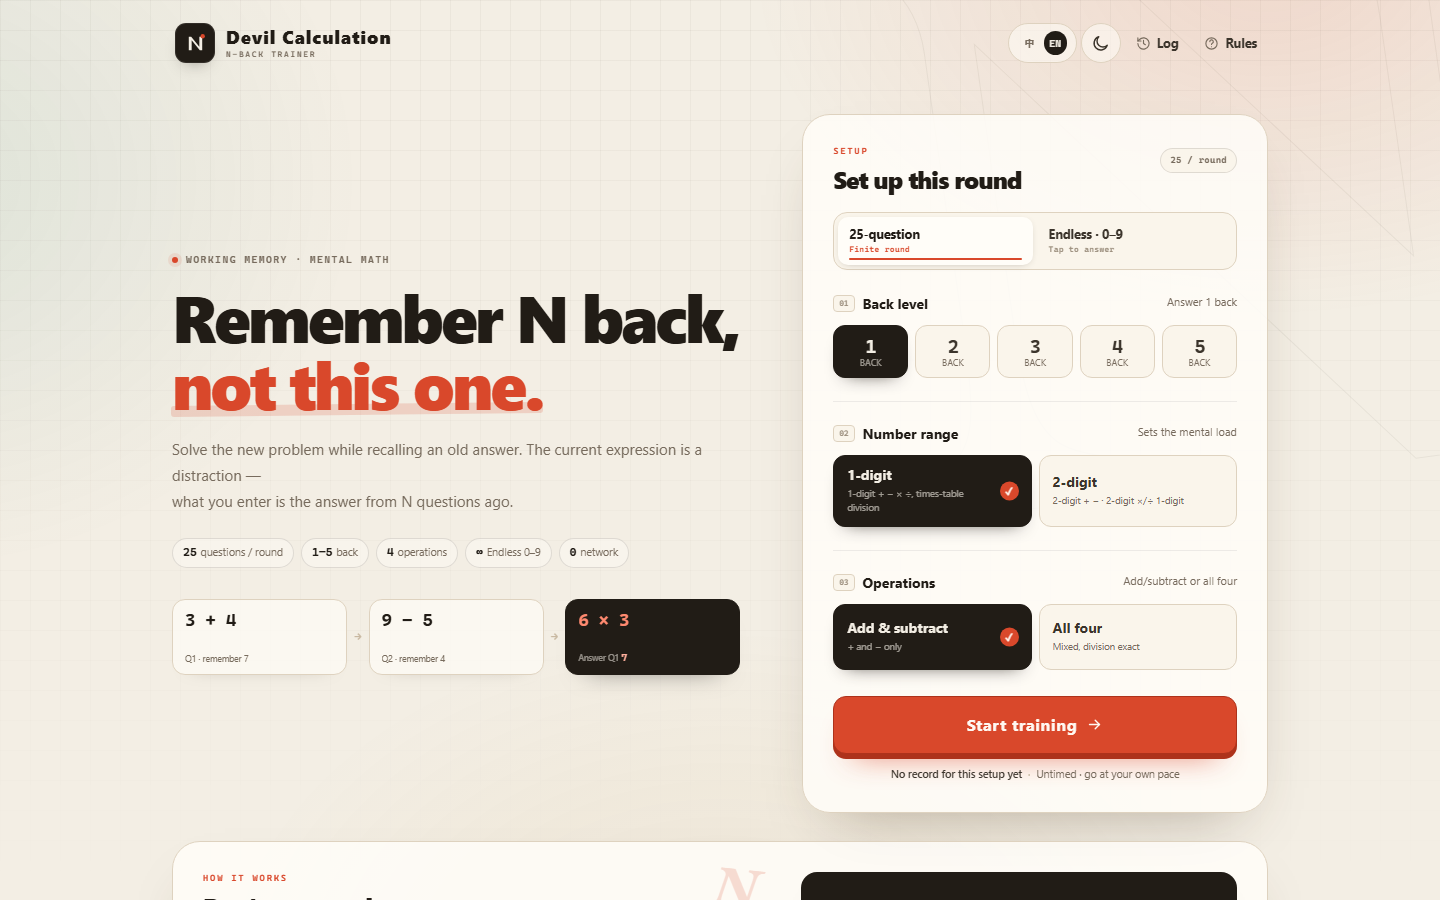
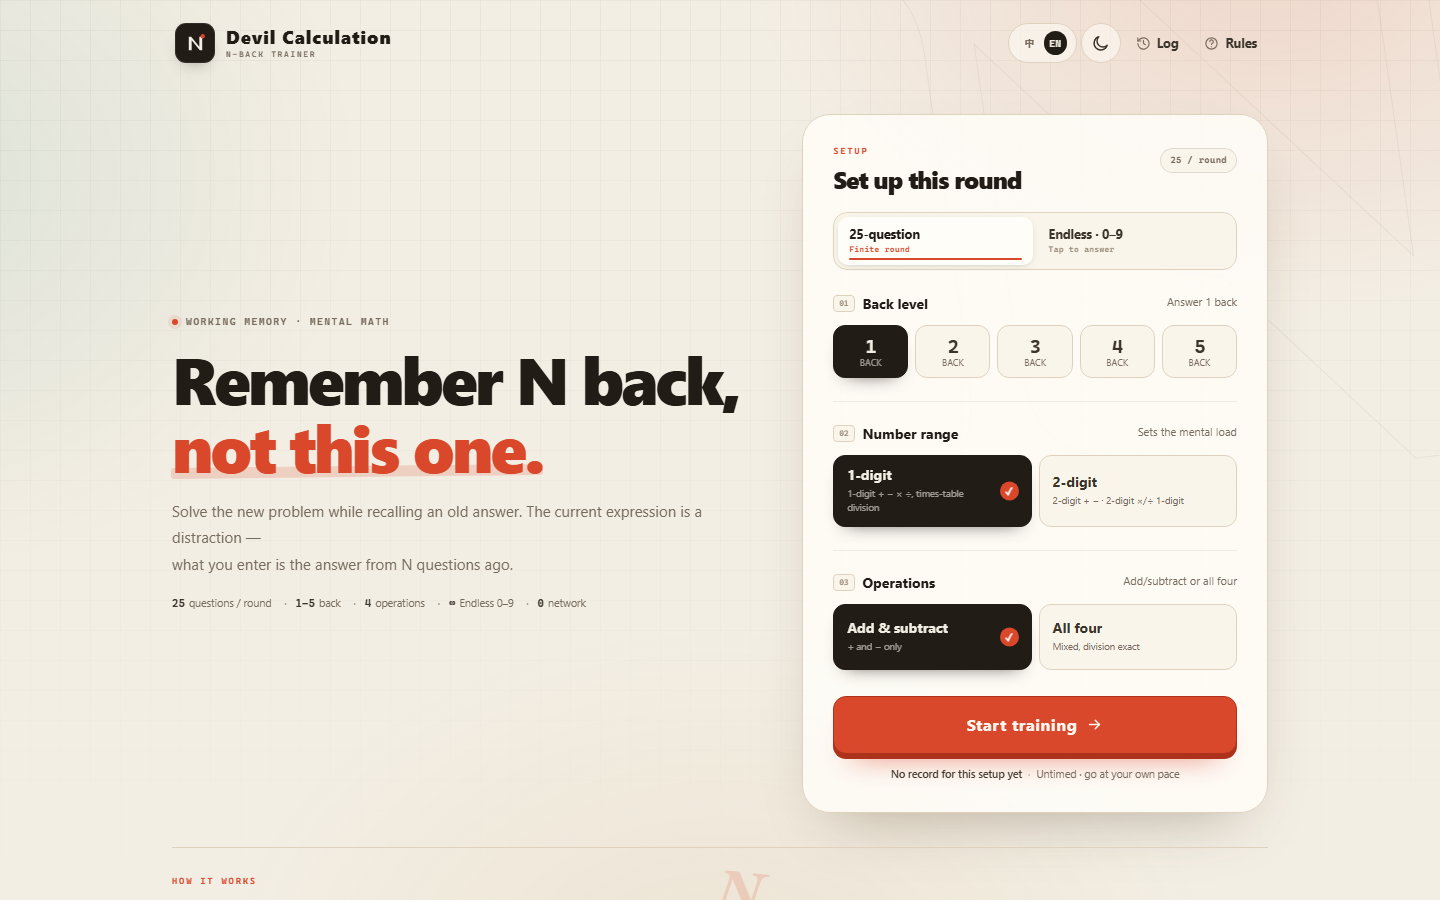
Simplify home page by removing decorative boxes
- Turn hero tags into a plain metadata line

- Remove the redundant three-card memory strip

- Make the guide borderless with plain steps and example

- Refresh home and guide preview images

diff --git a/魔鬼计算.html b/魔鬼计算.html
@@ -3861,6 +3861,124 @@ html[data-lang="en"] .hero-copy h1 {
   }
 }
 
+/* Simplified home: plain meta line, no redundant example cards, borderless guide */
+.hero-tags {
+  gap: 4px 0;
+  margin-top: 19px;
+  align-items: center;
+}
+
+html[data-theme] .hero-tags span {
+  padding: 0;
+  border: 0;
+  border-radius: 0;
+  background: none;
+  box-shadow: none;
+  font-size: 10.5px;
+  color: var(--muted);
+}
+
+.hero-tags span:not(:last-child)::after {
+  content: "·";
+  margin: 0 9px;
+  color: var(--muted-2);
+}
+
+html[data-theme] .hero-tags b {
+  font-size: 11px;
+  color: var(--ink-soft);
+}
+
+html[data-theme] .guide-panel.panel {
+  margin-top: 34px;
+  padding: 27px 0 0;
+  border: 0;
+  border-top: 1px solid var(--line);
+  border-radius: 0;
+  background: transparent;
+  box-shadow: none;
+  -webkit-backdrop-filter: none;
+  backdrop-filter: none;
+}
+
+.guide-panel .steps {
+  gap: 13px;
+}
+
+.guide-panel .steps li {
+  grid-template-columns: minmax(0, 1fr);
+  gap: 0;
+}
+
+.guide-panel .step-num {
+  display: none;
+}
+
+html[data-theme] .guide-panel .example {
+  margin-top: 0;
+  padding: 0;
+  border: 0;
+  border-radius: 0;
+  background: transparent;
+  box-shadow: none;
+  color: var(--ink);
+}
+
+.guide-panel .example-head {
+  color: var(--muted);
+}
+
+.guide-panel .example-row {
+  border-bottom-color: var(--line);
+}
+
+.guide-panel .ex-tag {
+  color: var(--muted);
+}
+
+.guide-panel .ex-now .ex-q,
+.guide-panel .ex-now .ex-tag {
+  color: var(--accent);
+}
+
+.guide-panel .example-answer {
+  padding-top: 12px;
+  border-top: 1px solid var(--line);
+}
+
+.guide-panel .example-answer span {
+  color: var(--muted);
+}
+
+.guide-panel .example-answer strong {
+  color: var(--accent);
+}
+
+@media (max-width: 470px) {
+  html[data-theme] .hero-tags span {
+    font-size: 9.5px;
+  }
+
+  .hero-tags span:not(:last-child)::after {
+    margin: 0 7px;
+  }
+
+  html[data-theme] .guide-panel.panel {
+    margin-top: 26px;
+    padding-top: 23px;
+  }
+}
+
+@media (max-width: 470px) {
+  .hero-tags span:last-child {
+    display: none;
+  }
+
+  .hero-tags span:nth-last-child(2)::after {
+    content: none;
+  }
+}
+
 </style>
 </head>
 <body data-screen="home">
@@ -3925,23 +4043,6 @@ html[data-lang="en"] .hero-copy h1 {
             <span data-i18n-html="tag_ops_html"><b>4</b> 种运算</span>
             <span data-i18n-html="tag_endless_html"><b>∞</b> 无尽 0–9</span>
             <span data-i18n-html="tag_offline_html"><b>0</b> 联网</span>
-          </div>
-
-          <div class="memory-strip" aria-hidden="true">
-            <div class="strip-card">
-              <span class="strip-q">3 + 4</span>
-              <span class="strip-tag" data-i18n="strip_q1">第 1 题 · 记住 7</span>
-            </div>
-            <span class="strip-arrow">→</span>
-            <div class="strip-card">
-              <span class="strip-q">9 − 5</span>
-              <span class="strip-tag" data-i18n="strip_q2">第 2 题 · 记住 4</span>
-            </div>
-            <span class="strip-arrow">→</span>
-            <div class="strip-card strip-card-now">
-              <span class="strip-q">6 × 3</span>
-              <span class="strip-tag" data-i18n-html="strip_a1_html">回答第 1 题 <b>7</b></span>
-            </div>
           </div>
         </div>
 

diff --git a/dev/styles.css b/dev/styles.css
@@ -3834,3 +3834,121 @@ html[data-lang="en"] .hero-copy h1 {
     font-size: clamp(34px, 9.4vw, 42px);
   }
 }
+
+/* Simplified home: plain meta line, no redundant example cards, borderless guide */
+.hero-tags {
+  gap: 4px 0;
+  margin-top: 19px;
+  align-items: center;
+}
+
+html[data-theme] .hero-tags span {
+  padding: 0;
+  border: 0;
+  border-radius: 0;
+  background: none;
+  box-shadow: none;
+  font-size: 10.5px;
+  color: var(--muted);
+}
+
+.hero-tags span:not(:last-child)::after {
+  content: "·";
+  margin: 0 9px;
+  color: var(--muted-2);
+}
+
+html[data-theme] .hero-tags b {
+  font-size: 11px;
+  color: var(--ink-soft);
+}
+
+html[data-theme] .guide-panel.panel {
+  margin-top: 34px;
+  padding: 27px 0 0;
+  border: 0;
+  border-top: 1px solid var(--line);
+  border-radius: 0;
+  background: transparent;
+  box-shadow: none;
+  -webkit-backdrop-filter: none;
+  backdrop-filter: none;
+}
+
+.guide-panel .steps {
+  gap: 13px;
+}
+
+.guide-panel .steps li {
+  grid-template-columns: minmax(0, 1fr);
+  gap: 0;
+}
+
+.guide-panel .step-num {
+  display: none;
+}
+
+html[data-theme] .guide-panel .example {
+  margin-top: 0;
+  padding: 0;
+  border: 0;
+  border-radius: 0;
+  background: transparent;
+  box-shadow: none;
+  color: var(--ink);
+}
+
+.guide-panel .example-head {
+  color: var(--muted);
+}
+
+.guide-panel .example-row {
+  border-bottom-color: var(--line);
+}
+
+.guide-panel .ex-tag {
+  color: var(--muted);
+}
+
+.guide-panel .ex-now .ex-q,
+.guide-panel .ex-now .ex-tag {
+  color: var(--accent);
+}
+
+.guide-panel .example-answer {
+  padding-top: 12px;
+  border-top: 1px solid var(--line);
+}
+
+.guide-panel .example-answer span {
+  color: var(--muted);
+}
+
+.guide-panel .example-answer strong {
+  color: var(--accent);
+}
+
+@media (max-width: 470px) {
+  html[data-theme] .hero-tags span {
+    font-size: 9.5px;
+  }
+
+  .hero-tags span:not(:last-child)::after {
+    margin: 0 7px;
+  }
+
+  html[data-theme] .guide-panel.panel {
+    margin-top: 26px;
+    padding-top: 23px;
+  }
+}
+
+@media (max-width: 470px) {
+  .hero-tags span:last-child {
+    display: none;
+  }
+
+  .hero-tags span:nth-last-child(2)::after {
+    content: none;
+  }
+}

diff --git a/dev/index.html b/dev/index.html
@@ -88,23 +88,6 @@
             <span data-i18n-html="tag_endless_html"><b>∞</b> 无尽 0–9</span>
             <span data-i18n-html="tag_offline_html"><b>0</b> 联网</span>
           </div>
-
-          <div class="memory-strip" aria-hidden="true">
-            <div class="strip-card">
-              <span class="strip-q">3 + 4</span>
-              <span class="strip-tag" data-i18n="strip_q1">第 1 题 · 记住 7</span>
-            </div>
-            <span class="strip-arrow">→</span>
-            <div class="strip-card">
-              <span class="strip-q">9 − 5</span>
-              <span class="strip-tag" data-i18n="strip_q2">第 2 题 · 记住 4</span>
-            </div>
-            <span class="strip-arrow">→</span>
-            <div class="strip-card strip-card-now">
-              <span class="strip-q">6 × 3</span>
-              <span class="strip-tag" data-i18n-html="strip_a1_html">回答第 1 题 <b>7</b></span>
-            </div>
-          </div>
         </div>
 
         <section class="panel setup-panel" aria-labelledby="setup-title">
